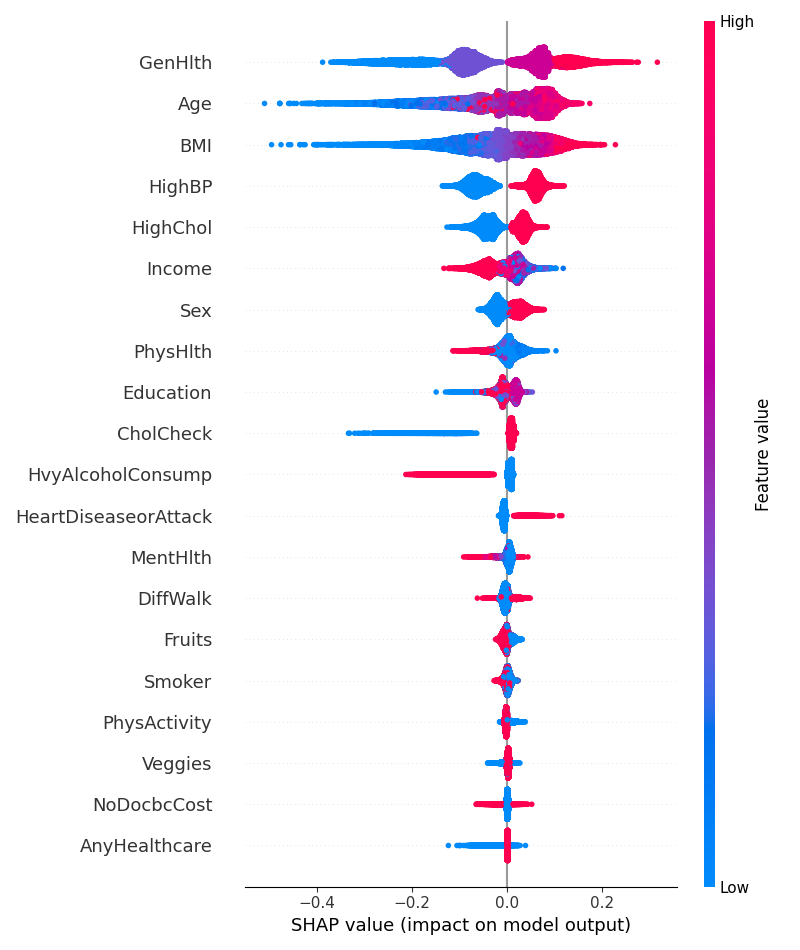
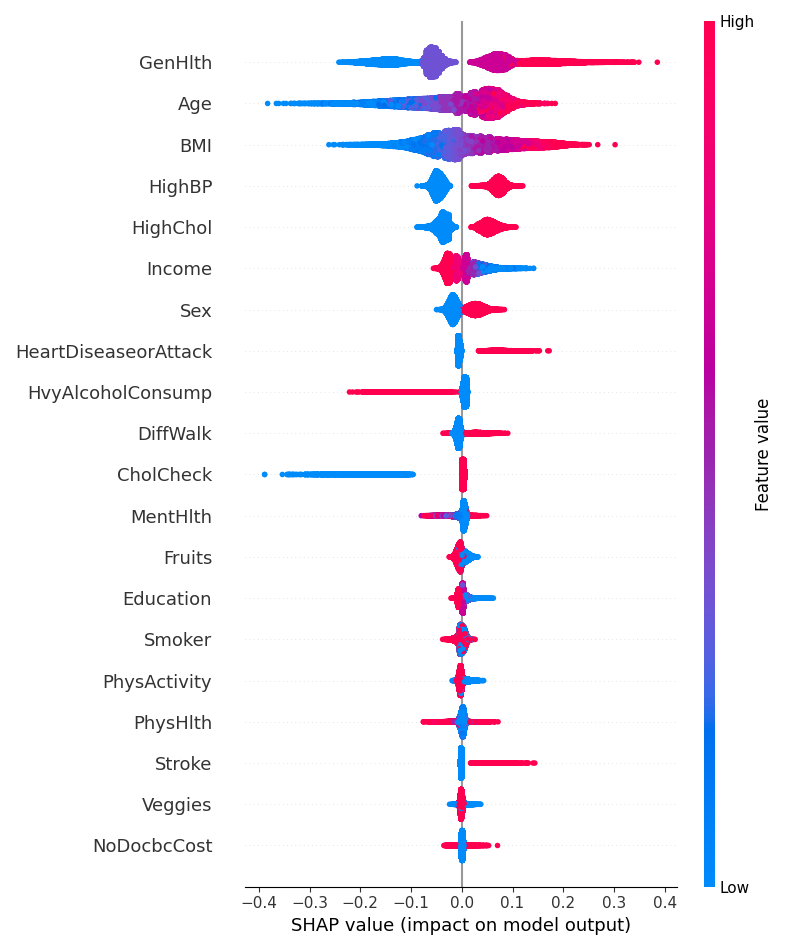
add train_tuner.py

diff --git a/code/diabetes_binary_health_indicators_BRFSS2015/train_tuner.py b/code/diabetes_binary_health_indicators_BRFSS2015/train_tuner.py
@@ -1,0 +1,183 @@
+import pandas as pd
+import numpy as np
+import matplotlib.pyplot as plt
+import joblib
+import os
+from sklearn.model_selection import train_test_split
+from sklearn.preprocessing import StandardScaler, LabelEncoder
+from sklearn.impute import SimpleImputer
+from sklearn.metrics import classification_report, roc_auc_score
+from sklearn.utils import class_weight
+import tensorflow as tf
+from tensorflow.keras.models import Sequential
+from tensorflow.keras.layers import Dense, Dropout, BatchNormalization, Input
+from tensorflow.keras.callbacks import EarlyStopping, ReduceLROnPlateau
+import keras_tuner as kt
+import shap
+
+# === 1. ЗАГРУЗКА И ПОДГОТОВКА ДАННЫХ ===
+print("Загрузка данных...")
+current_dir = os.path.dirname(os.path.abspath(__file__))
+dataset_path = os.path.join(current_dir, 'diabetes_binary_health_indicators_BRFSS2015.csv')
+
+df = pd.read_csv(dataset_path)
+
+target_column = 'Diabetes_binary' 
+X = df.drop([target_column], axis=1)
+y = df[target_column]
+
+print("Кодирование целевой переменной...")
+target_encoder = LabelEncoder()
+y = target_encoder.fit_transform(y)
+joblib.dump(target_encoder, 'target_encoder.pkl') 
+
+print("Кодирование текстовых признаков...")
+label_encoders = {}
+for column in X.select_dtypes(include=['object']).columns:
+    le = LabelEncoder()
+    X[column] = le.fit_transform(X[column])
+    label_encoders[column] = le
+joblib.dump(label_encoders, 'label_encoders.pkl')
+
+# === 2. РАЗБИЕНИЕ И ПРЕДОБРАБОТКА ===
+print("Разбиение и нормализация данных...")
+X_train, X_temp, y_train, y_temp = train_test_split(X, y, test_size=0.3, stratify=y, random_state=42)
+X_val, X_test, y_val, y_test = train_test_split(X_temp, y_temp, test_size=0.5, stratify=y_temp, random_state=42)
+
+imputer = SimpleImputer(strategy='mean')
+X_train_imputed = imputer.fit_transform(X_train)
+X_val_imputed = imputer.transform(X_val)
+X_test_imputed = imputer.transform(X_test)
+joblib.dump(imputer, 'imputer.pkl') 
+
+scaler = StandardScaler()
+X_train_scaled = scaler.fit_transform(X_train_imputed)
+X_val_scaled = scaler.transform(X_val_imputed)
+X_test_scaled = scaler.transform(X_test_imputed)
+joblib.dump(scaler, 'scaler.pkl') 
+
+print("Вычисление весов классов...")
+weights = class_weight.compute_class_weight('balanced', classes=np.unique(y_train), y=y_train)
+class_weights_dict = dict(enumerate(weights))
+print(f"Веса классов: {class_weights_dict}")
+
+# === 3. АВТОМАТИЧЕСКИЙ ПОДБОР ПАРАМЕТРОВ (KERAS TUNER) ===
+print("\nНастройка функции создания модели для KerasTuner...")
+
+def build_model(hp):
+    """Функция для сборки модели с варьируемыми гиперпараметрами"""
+    model = Sequential()
+    model.add(Input(shape=(X_train_scaled.shape[1],)))
+    
+    # Перебираем количество скрытых слоев от 1 до 4
+    for i in range(hp.Int('num_layers', 1, 4)):
+        # Подбираем количество нейронов
+        model.add(Dense(
+            units=hp.Int(f'units_{i}', min_value=32, max_value=256, step=32),
+            activation='relu'
+        ))
+        
+        # Подбираем, нужен ли BatchNormalization
+        if hp.Boolean(f'batch_norm_{i}'):
+            model.add(BatchNormalization())
+            
+        # Подбираем уровень Dropout
+        model.add(Dropout(
+            rate=hp.Float(f'dropout_{i}', min_value=0.1, max_value=0.5, step=0.1)
+        ))
+    
+    model.add(Dense(1, activation='sigmoid'))
+    
+    # Подбираем скорость обучения (Learning Rate)
+    hp_learning_rate = hp.Choice('learning_rate', values=[1e-2, 1e-3, 1e-4])
+    
+    model.compile(
+        optimizer=tf.keras.optimizers.Adam(learning_rate=hp_learning_rate),
+        loss='binary_crossentropy',
+        metrics=['AUC']
+    )
+    
+    return model
+
+# Используем алгоритм Hyperband для быстрого поиска лучших параметров
+tuner = kt.Hyperband(
+    build_model,
+    objective=kt.Objective("val_AUC", direction="max"), # Ищем модель с максимальным валидационным AUC
+    max_epochs=50,
+    factor=3,
+    directory='tuner_logs',
+    project_name='diabetes_risk_tuning',
+    overwrite=True
+)
+
+early_stop = EarlyStopping(monitor='val_AUC', mode='max', patience=10, restore_best_weights=True)
+
+print("Начало поиска лучших гиперпараметров...")
+tuner.search(
+    X_train_scaled, y_train,
+    validation_data=(X_val_scaled, y_val),
+    epochs=50,
+    batch_size=512,
+    class_weight=class_weights_dict,
+    callbacks=[early_stop],
+    verbose=1
+)
+
+# === 4. ОБУЧЕНИЕ ЛУЧШЕЙ МОДЕЛИ ===
+print("\n=== ЛУЧШИЕ ПАРАМЕТРЫ НАЙДЕНЫ ===")
+best_hps = tuner.get_best_hyperparameters(num_trials=1)[0]
+print(f"Количество слоев: {best_hps.get('num_layers')}")
+print(f"Скорость обучения: {best_hps.get('learning_rate')}")
+
+# Строим модель с лучшими параметрами
+best_model = tuner.hypermodel.build(best_hps)
+
+# Обучаем её до конца (Tuner только ищет, теперь обучаем начисто)
+reduce_lr = ReduceLROnPlateau(monitor='val_AUC', mode='max', factor=0.2, patience=5, min_lr=1e-6, verbose=1)
+
+print("\nФинальное обучение лучшей модели...")
+history = best_model.fit(
+    X_train_scaled, y_train,
+    validation_data=(X_val_scaled, y_val),
+    epochs=100, 
+    batch_size=512, 
+    class_weight=class_weights_dict,
+    callbacks=[early_stop, reduce_lr], 
+    verbose=1
+)
+
+best_model.save('best_disease_risk_model.keras')
+print("\nЛучшая модель успешно обучена и сохранена!")
+
+# === 5. ОЦЕНКА МЕТРИК НА ТЕСТОВОЙ ВЫБОРКЕ ===
+print("\n=== ОЦЕНКА НА ТЕСТОВОЙ ВЫБОРКЕ ===")
+y_pred_probs = best_model.predict(X_test_scaled)
+
+auc_score = roc_auc_score(y_test, y_pred_probs)
+print(f"ROC-AUC: {auc_score:.4f}")
+
+y_pred_classes = (y_pred_probs > 0.5).astype(int)
+print("\nОтчет о классификации (Порог 0.5):")
+print(classification_report(y_test, y_pred_classes, target_names=['Нет диабета', 'Диабет']))
+
+# === 6. ИНТЕРПРЕТАЦИЯ И ГРАФИКИ (SHAP) ===
+print("\nПостроение графиков SHAP (это может занять пару минут)...")
+# ИСПРАВЛЕНО: Заменен X_train_smote на X_train_scaled
+background = shap.sample(X_train_scaled, 100)
+explainer = shap.DeepExplainer(best_model, background)
+
+shap_values = explainer.shap_values(X_test_scaled)
+
+if isinstance(shap_values, list):
+    sv = shap_values[0]
+else:
+    sv = shap_values
+
+if len(sv.shape) == 3:
+    sv = sv[:, :, 0]
+
+plt.figure(figsize=(10, 6))
+shap.summary_plot(sv, X_test_scaled, feature_names=X.columns, show=False)
+plt.tight_layout()
+plt.savefig('shap_summary.png')
+print("График 'shap_summary.png' успешно сохранен в папке проекта!")

diff --git a/code/diabetes_binary_health_indicators_BRFSS2015/train.py b/code/diabetes_binary_health_indicators_BRFSS2015/train.py
@@ -13,6 +13,8 @@ from tensorflow.keras.models import Sequential
 from tensorflow.keras.layers import Dense, Dropout, BatchNormalization, Input
 from tensorflow.keras.callbacks import EarlyStopping
 import shap
+from sklearn.utils import class_weight
+from tensorflow.keras.callbacks import ReduceLROnPlateau
 
 # === 1. ЗАГРУЗКА И ПОДГОТОВКА ДАННЫХ ===
 print("Загрузка данных...")
@@ -43,8 +45,7 @@ for column in X.select_dtypes(include=['object']).columns:
     label_encoders[column] = le
 joblib.dump(label_encoders, 'label_encoders.pkl')
 
-from sklearn.utils import class_weight
-from tensorflow.keras.callbacks import ReduceLROnPlateau
+
 
 # === 2. РАЗБИЕНИЕ И ПРЕДОБРАБОТКА ===
 print("Разбиение и нормализация данных...")